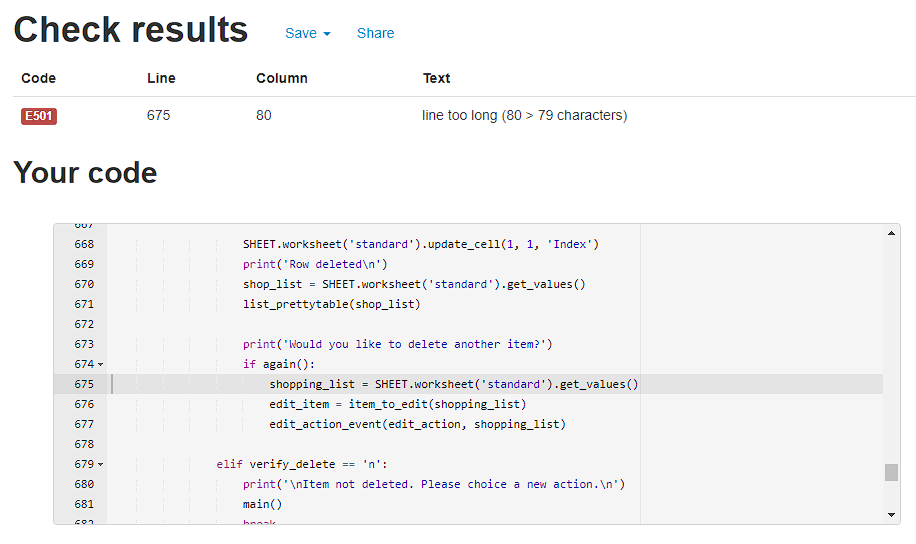
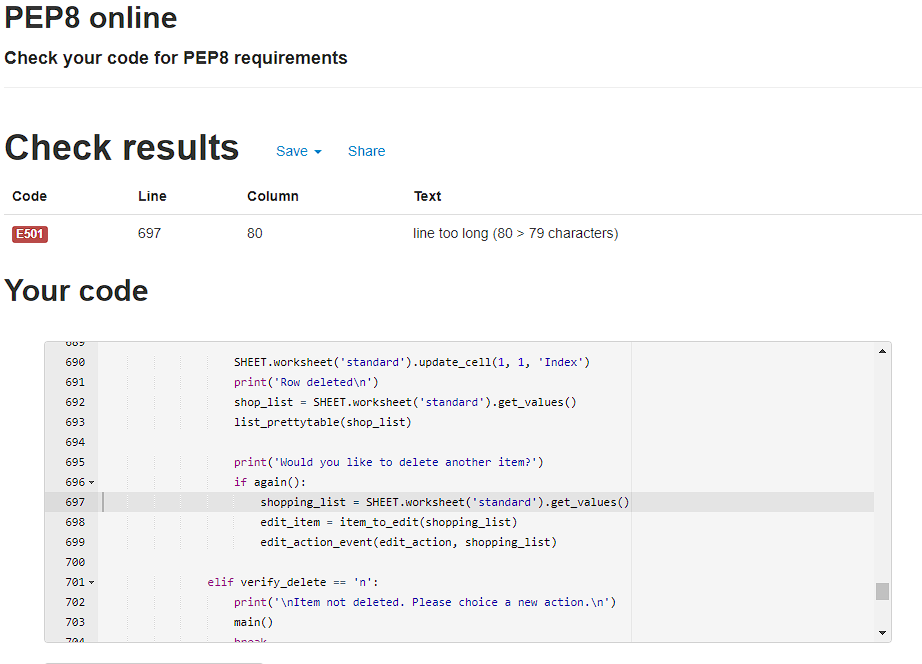
Add more content to testing file and small adjustments in text in run.py.

diff --git a/run.py b/run.py
@@ -22,10 +22,10 @@ def view_shopping_list():
     """
 
     while True:
-        print('-----------------------------------------------------------')
-        print('|         Welcome to your personal shopping list!         |')
-        print('-----------------------------------------------------------')
-        print('Would you like to view the complete shopping list?   |')
+        print('---------------------------------------------------------')
+        print('|       Welcome to your personal shopping list!         |')
+        print('---------------------------------------------------------')
+        print('Would you like to view the complete shopping list?')
         print('Or one of your editable shopping lists?\n')
         print('Choose between:')
         print('Complete list (c) - a merger of the two lists above.')
@@ -72,7 +72,7 @@ def view_shopping_list():
 
 def list_prettytable(shop_list):
     """
-    Formats the list using PrettyTable, to make the 
+    Formats the list using PrettyTable, to make the
     lists easy to read and more visual appealing.
     """
     pt_ = PrettyTable()
@@ -363,7 +363,7 @@ def check_all_update(shopping_list):
                 i = int(i)
                 standard_col[i] = 0 + 1
                 SHEET.worksheet('standard').update_cell(i + 1, 3, "yes")
-            
+
             SHEET.worksheet('standard').update_cell(1, 3, 'Buy-Me')
             shop_list = SHEET.worksheet('standard').get_values()
             list_prettytable(shop_list)
@@ -498,7 +498,7 @@ def change_location(edit_item, shopping_list):
     Ask for user input new location and checks for valid input.
     """
     while True:
-        print('\nLocations in store (examples): "Bakery", "Bevereges", "Bulk", ')
+        print('\nLocation in store (examples): "Bakery", "Bevereges", "Bulk",')
         print(' "Dairy", "Deli", "Floral", "Household", "Meat",')
         print(' "Personal", "Snacks", "Vegetables" \n')
         location = input('Input new location: \n').capitalize()
@@ -602,7 +602,7 @@ def add_item(shopping_list):
             print('Please try again!\n')
 
     while True:
-        print('\nLocations in store (examples): "Bakery", "Bevereges", "Bulk", ')
+        print('\nLocation in store (examples): "Bakery", "Bevereges", "Bulk",')
         print(' "Dairy", "Deli", "Floral", "Household", "Meat",')
         print(' "Personal", "Snacks", "Vegetables" \n')
         location = input('Location in store: \n').capitalize()

diff --git a/TESTING.md b/TESTING.md
@@ -9,7 +9,7 @@
 
 ### **Manual testing**
 
-During the entire developing stage I repeatedly tested the code added and altered regarding function and apperance via a python3 command terminal in the GitPod code editor. After the site was live deployed I also checked the site regularly trough the Heroku app to see how it behaved. My best friend in the debugging and testing was to add print-statements along the code to see where the bug appered as well as commenting out code and reading the error messages in the terminal. I also had my boyfriend test the deployed app to search for bugs I hadn't noticed.
+During the entire developing stage I repeatedly tested the code added and altered regarding function and apperance via a python3 command terminal in the GitPod code editor. After the site was live deployed I also checked the site regularly trough the Heroku app to see how it behaved. One of the most important functions of the app was to validate the input data so the user cant't proceed without putting in the right value. It took extensive work since there are multiple input fields and multiple actions that requires the user to confirm there choice or make another one but in the end all requested validation works. My best friend in the debugging and testing was to add print-statements along the flow of the code, to see exactly where the bug appered as well as commenting out code and reading the error messages in the terminal. I also had my boyfriend test the deployed app to search for bugs I hadn't noticed.
 
 <br>
 
@@ -42,7 +42,7 @@ When the basic structure of the project was done I ran code validation through t
 There where a number of bugs and mishaps committed through the development as I tried to learn the best way to code the website. I freakvently created lociacal errors due to not understanding the flow of the code correctly but as the project came along, and the bugs with it, I started too see and understand more naturally what I had done too cause the bug to happen.
 
 **The major bugs where**: <br>
-1. While loops that looped back to previous choosen actions or items after the user choose to go back to main menu. Or kept looping if the input was wrong.
+1. While loops that looped back to previous chosen actions or items after the user chose to go back to main menu. Or kept looping if the input was wrong.
     - Logical error due to not understanding the flow and not properly breaking the loop when I thought I had.
     - Sometimes I discarded the while loop, thinking the loop was the problem but later had too add it again after figuring out what I was doing wrong.
 2. The opposite also happend when I thought the code would loop without using a loop at all.
@@ -52,16 +52,8 @@ There where a number of bugs and mishaps committed through the development as I 
     - Fixed by changing the code back to the original code: range(len(x))
 4. It the user changed it's mind about what item number the wanted to edit, the input value of the code changed into a "NoneType" and the code stopped due to SyntaxError. 
     - This time I wasn't using a while loop where I should. With the help of print statements and a nights sleep, I finally saw my mistakes. 
-5. 
-    - 
-6. 
-    - 
-7. 
-    - 
-8. 
-    - 
-9. 
-    - 
+5. When showing the updated list after an action, the old list was shown. 
+    - Had to add an seperete new line redefining the variable so right list was showing. Added the functionallity to the variable so it is global. 
 
 <br>
 
